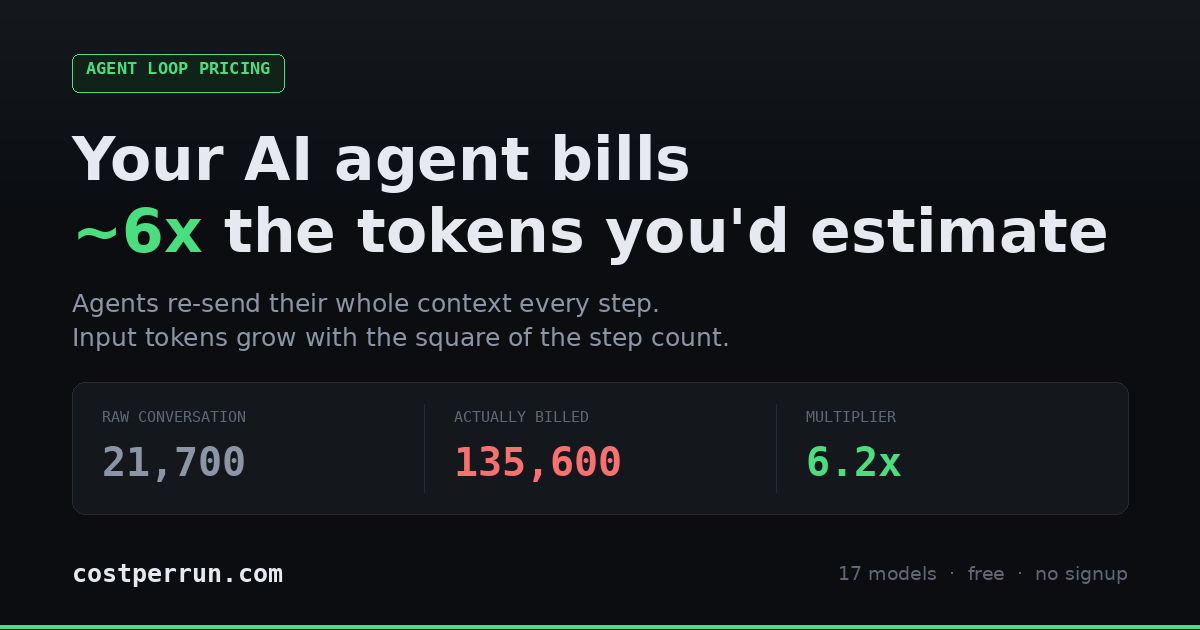
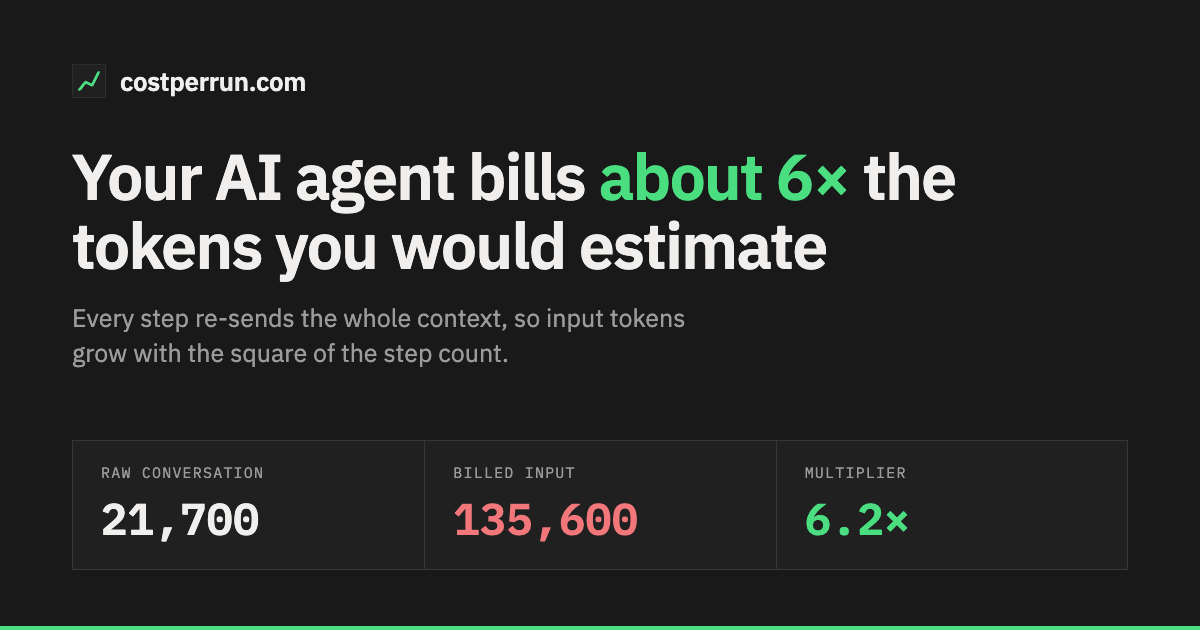
Fix stale model counts: JSON-LD said 18, social card said 17
The JSON-LD description still said "across 18 LLMs" while the page,
llms.txt and the featureList say 29. It was missed on every count
update because those searched only for "N models".

social-card.png, the image every shared link shows, said "17 models"
and dated from the first commit: rounded corners and a blue-black
palette the site no longer uses. It is rebuilt from HTML in the site's
own fonts, colours and square corners, with the same headline and the
same three figures (21,700 raw, 135,600 billed, 6.2x). It no longer
shows a model count, so it cannot go stale when models are added.

diff --git a/index.html b/index.html
@@ -36,7 +36,7 @@
   "url":"https://costperrun.com/",
   "applicationCategory":"DeveloperApplication",
   "operatingSystem":"Any (web browser)",
-  "description":"Estimates the true cost of a multi-step AI agent run by modelling context accumulation, tool-result size, retry rate and prompt caching across 18 LLMs. Unlike single-request calculators, it accounts for the quadratic growth in input tokens caused by re-sending conversation history each step.",
+  "description":"Estimates the true cost of a multi-step AI agent run by modelling context accumulation, tool-result size, retry rate and prompt caching across 29 LLMs. Unlike single-request calculators, it accounts for the quadratic growth in input tokens caused by re-sending conversation history each step.",
   "offers":{"@type":"Offer","price":"0","priceCurrency":"USD"},
   "featureList":[
     "Models quadratic context accumulation across agent steps",
